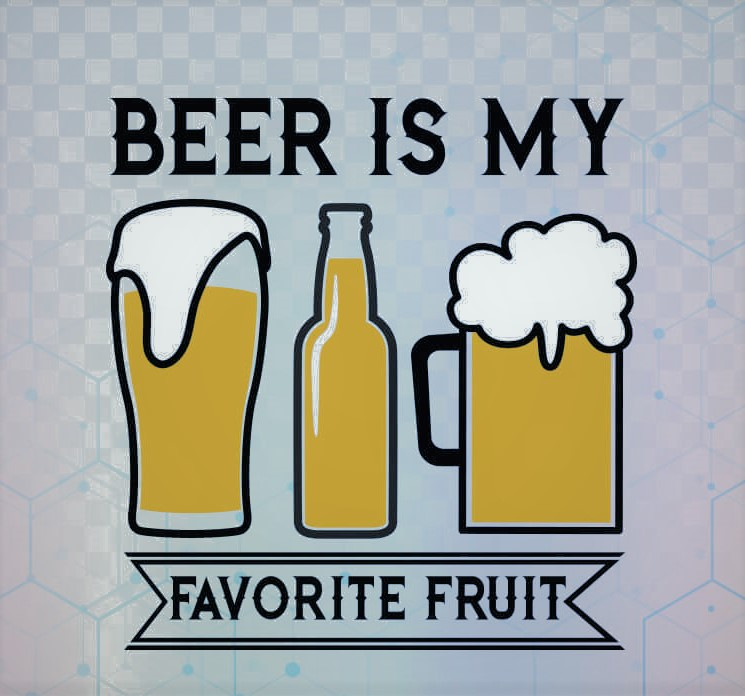
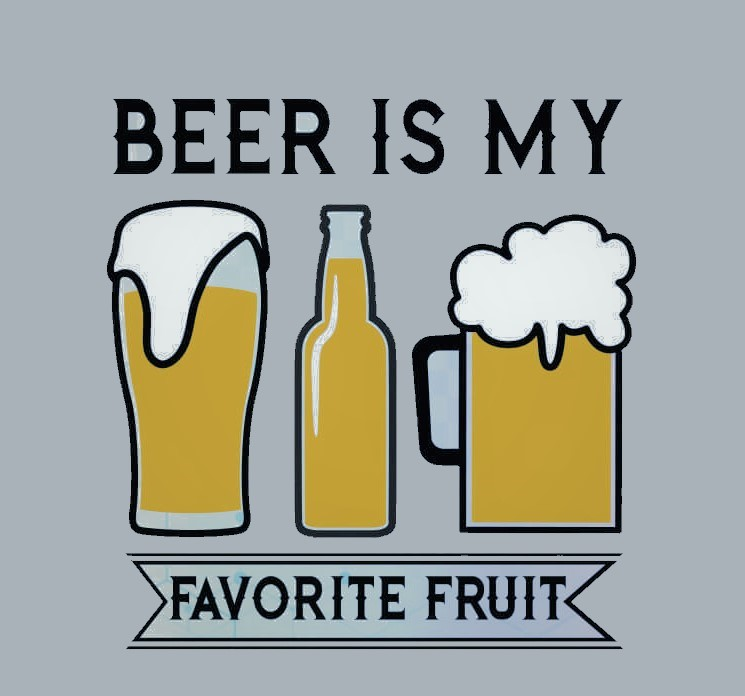
a

diff --git a/beer/style.css b/beer/style.css
@@ -1,7 +1,7 @@
 @import url('https://fonts.googleapis.com/css?family=Montserrat:400,600');
 body {
     margin: 0;
-    background: white;
+    background: #A9B2B9;
     font-family: 'Montserrat', 'sans-seriaf';
 }
 
@@ -11,6 +11,7 @@ p {
 }
 
 ul {
+    text-align: center;
     list-style-type: none;
     margin: 0;
     padding: 0;
@@ -31,6 +32,11 @@ header {
     justify-content: space-between;
 }
 
+.show-desktop li {
+    text-align: center;
+    padding-right: 3em;
+}
+
 .hide-mobile {
     display: none
 }
@@ -38,11 +44,16 @@ header {
 .menu {
     width: 25px;
     margin-top: 45%;
+    text-align: center;
 }
 
 .headerimg {
     width: 70%;
-    margin: 2em
+    margin: 2em;
+}
+
+img {
+    border: 5px solid #555;
 }
 
 h1,
@@ -57,7 +68,7 @@ h1,
 
 .blue-container {
     width: 100%;
-    background: #00C2FF;
+    background: #49666e;
     color: white;
     margin-top: 15%;
     padding: 4em 0 2em;
@@ -69,7 +80,7 @@ h1,
     content: "";
     width: 80px;
     height: 80px;
-    background-color: white;
+    background-color: #A9B2B9;
     top: -80px;
     position: absolute;
     right: 0;
@@ -81,7 +92,7 @@ h1,
     content: "";
     width: 40px;
     height: 40px;
-    background-color: #00C2FF;
+    background-color: #49666e;
     position: absolute;
     top: -39px;
     right: 0;
@@ -101,13 +112,12 @@ h1,
 }
 
 .gray-container {
-    background: #F6F6F6;
     padding: 4em 0 2em;
     margin-top: -3%;
 }
 
 .sbtn {
-    background: #00cc80;
+    background: #838f8a;
     width: calc(100% - 1em);
     display: block;
     color: #FFF;
@@ -119,7 +129,7 @@ h1,
 }
 
 .search {
-    background: #00cc80;
+    background: #838f8a;
     width: calc(100% - 1em);
     display: block;
     color: #FFF;
@@ -132,9 +142,19 @@ h1,
     z-index: 4;
 }
 
+.search1 {
+    background: #A9B2B9;
+    width: 10em;
+    color: black;
+    border-radius: 1em;
+    text-decoration: none;
+    z-index: 4;
+    margin: 1.2em 0 0 5em;
+}
+
 .footer {
     width: 100%;
-    background: #00C2FF;
+    background: #49666e;
     color: white;
     padding: 3em 0;
     border-top-right-radius: 40px;
@@ -149,7 +169,7 @@ h1,
     content: "";
     width: 40px;
     height: 40px;
-    background-color: #00C2FF;
+    background-color: #A9B2B9;
     position: absolute;
     top: -39px;
     left: 0;
@@ -160,7 +180,7 @@ h1,
     content: "";
     width: 80px;
     height: 80px;
-    background-color: #FFF;
+    background-color: #A9B2B9;
     position: absolute;
     z-index: -1;
     top: -80px;
@@ -213,7 +233,7 @@ nav ul li a:hover {
         width: 30%;
     }
     .headerimg {
-        width: 50%;
+        width: 30%;
     }
     h1 {
         font-size: 3em;

diff --git a/beer/index.html b/beer/index.html
@@ -23,10 +23,12 @@
                     <li id="exit" class="exit-btn hide-desktop">
                         <img src="exit.svg" alt="exit menu">
                     </li>
-                    <li><a href="#">Home</a></li>
-                    <li><a href="#">Beer</a></li>
-                    <li><a href="#">About</a></li>
+                    <li><a href="index.html" class="link1">Home</a></li>
+                    <li><a href="beer.html">Beer</a></li>
                     <li><a href="#">Contact</a></li>
+                    <li>
+                        <input type="text" name="search" placeholder="Search.." class="search1" results="0">
+                    </li>
                 </ul>
             </nav>
         </header>
@@ -78,7 +80,7 @@
     <div class="container">
         <h2>Search For a beer</h2>
         <input type="text" name="search" placeholder="Search.." class="search">
-        <p>return value</p>
+
     </div>
     <footer>
         <div class="footer">

diff --git a/beer/search.html b/beer/search.html
@@ -1,0 +1,14 @@
+<!DOCTYPE html>
+<html lang="en">
+
+<head>
+    <meta charset="UTF-8">
+    <meta name="viewport" content="width=device-width, initial-scale=1.0">
+    <title>Search Beer info</title>
+</head>
+
+<body>
+
+</body>
+
+</html>

diff --git a/beer/beer.html b/beer/beer.html
@@ -1,0 +1,14 @@
+<!DOCTYPE html>
+<html lang="en">
+
+<head>
+    <meta charset="UTF-8">
+    <meta name="viewport" content="width=device-width, initial-scale=1.0">
+    <title>Document</title>
+</head>
+
+<body>
+
+</body>
+
+</html>
